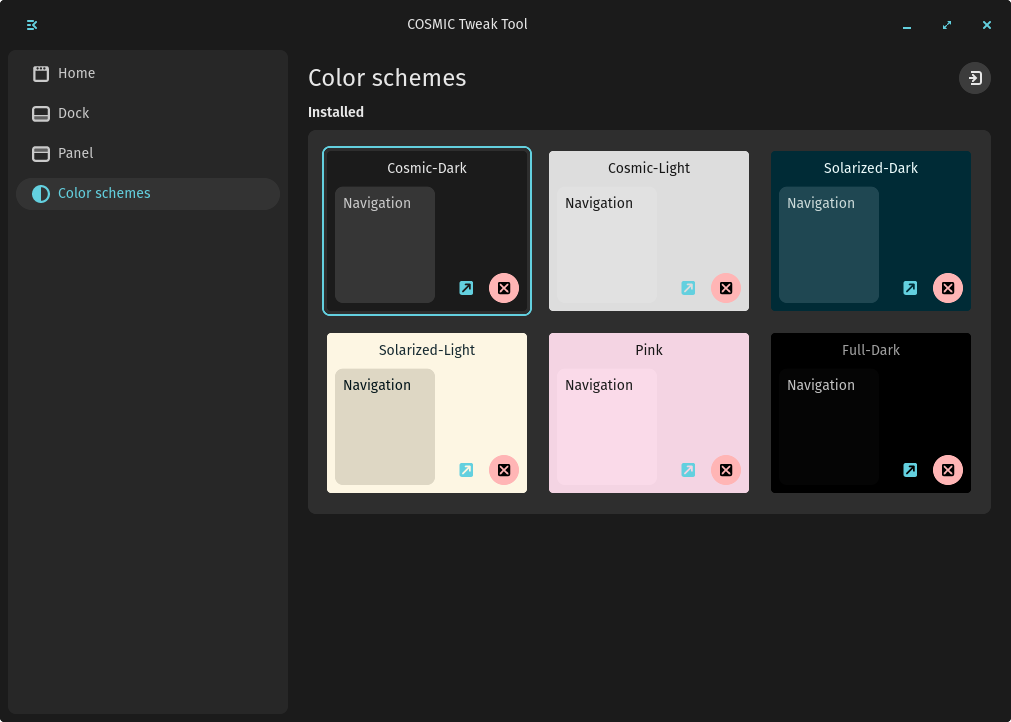
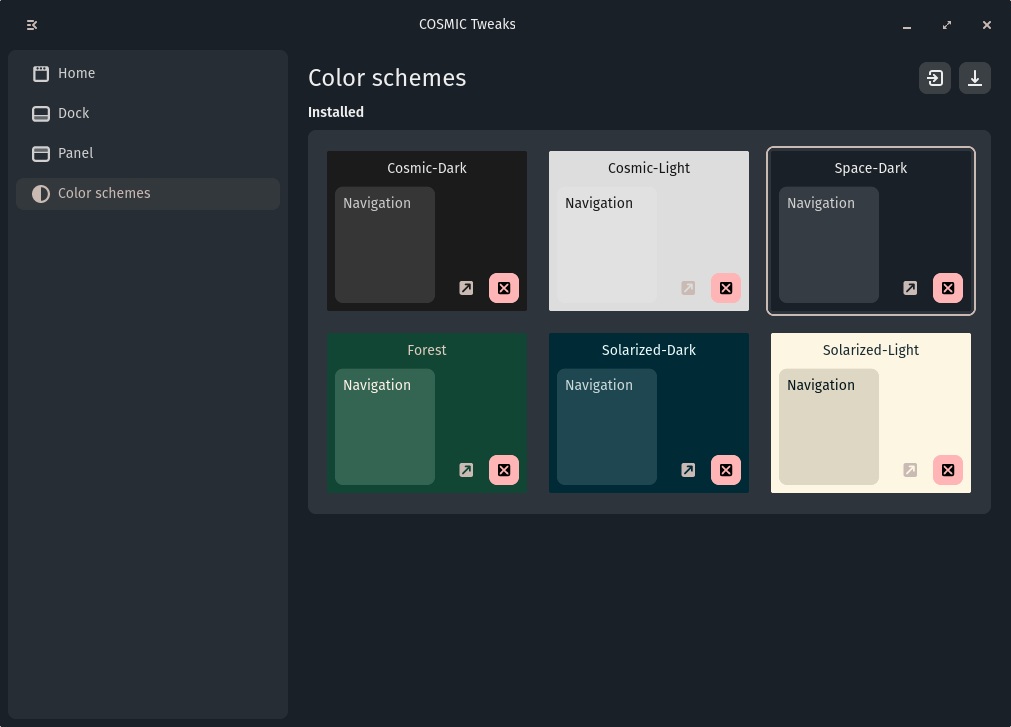
feat: save current theme
- added button to save current theme
- general improvements
- added tooltips

diff --git a/src/pages/color_schemes.rs b/src/pages/color_schemes.rs
@@ -7,17 +7,18 @@ use cosmic::{
     cosmic_config::{Config, CosmicConfigEntry},
     cosmic_theme::{Theme, ThemeBuilder, ThemeMode},
     iced::Length,
-    widget, Apply, Command, Element,
+    widget::{self, tooltip},
+    Apply, Command, Element,
 };
 
 mod config;
 mod preview;
 
 pub struct ColorSchemes {
+    selected: ColorScheme,
     color_schemes: Vec<ColorScheme>,
     config_helper: Option<Config>,
     config: Option<ColorScheme>,
-    selected: ColorScheme,
     theme_mode: ThemeMode,
     theme_builder_config: Option<Config>,
     theme_builder: ThemeBuilder,
@@ -71,10 +72,10 @@ impl Default for ColorSchemes {
         let selected = config.clone().unwrap_or_default();
         let color_schemes = Self::fetch_color_schemes().unwrap_or_default();
         Self {
+            selected,
             color_schemes,
             config_helper,
             config,
-            selected,
             theme_mode,
             theme_builder_config,
             theme_builder,
@@ -88,6 +89,7 @@ pub enum Message {
     ImportError,
     ImportFile(Arc<SelectedFiles>),
     ImportSuccess(Box<ThemeBuilder>),
+    SaveCurrentColorScheme(Option<String>),
     SetColorScheme(ColorScheme),
     DeleteColorScheme(ColorScheme),
     OpenContainingFolder(ColorScheme),
@@ -97,17 +99,33 @@ pub enum Message {
 impl ColorSchemes {
     pub fn view<'a>(&self) -> Element<'a, Message> {
         let spacing = cosmic::theme::active().cosmic().spacing;
+
         widget::column::with_children(vec![
             widget::row::with_children(vec![
                 widget::text::title3(fl!("color-schemes")).into(),
                 widget::horizontal_space(Length::Fill).into(),
-                icons::get_icon("step-in-symbolic", 16)
-                    .apply(widget::button)
-                    .padding(spacing.space_xxs)
-                    .on_press(Message::StartImport)
-                    .style(cosmic::theme::Button::Standard)
-                    .into(),
+                widget::tooltip::tooltip(
+                    icons::get_icon("arrow-into-box-symbolic", 16)
+                        .apply(widget::button)
+                        .padding(spacing.space_xxs)
+                        .on_press(Message::SaveCurrentColorScheme(None))
+                        .style(cosmic::theme::Button::Standard),
+                    fl!("save-current-color-scheme"),
+                    tooltip::Position::Bottom,
+                )
+                .into(),
+                widget::tooltip::tooltip(
+                    icons::get_icon("document-save-symbolic", 16)
+                        .apply(widget::button)
+                        .padding(spacing.space_xxs)
+                        .on_press(Message::StartImport)
+                        .style(cosmic::theme::Button::Standard),
+                    fl!("import-color-scheme"),
+                    tooltip::Position::Bottom,
+                )
+                .into(),
             ])
+            .spacing(spacing.space_xxs)
             .into(),
             widget::scrollable(widget::settings::view_section(fl!("installed")).add({
                 let themes: Vec<Element<Message>> = self
@@ -161,30 +179,34 @@ impl ColorSchemes {
                 let Ok(path) = f.to_file_path() else {
                     return Command::none();
                 };
-                let inner_path = path.clone();
+
+                let file = path.file_name().unwrap().to_str().unwrap().to_string();
+
+                let new_file = dirs::data_local_dir()
+                    .map(|dir| dir.join("themes/cosmic").join(file))
+                    .unwrap_or_default();
+
+                let color_scheme = ColorScheme {
+                    name: new_file.file_stem().unwrap().to_str().unwrap().to_string(),
+                    path: new_file.clone(),
+                    theme: Default::default(),
+                };
+
+                commands.push(self.update(Message::SetColorScheme(color_scheme.clone())));
+
+                let file_path = path.clone();
                 commands.push(Command::perform(
                     async move { tokio::fs::read_to_string(path).await },
                     move |res| {
-                        if let Some(b) = res.ok().and_then(|s| {
-                            if let Some(dir) = dirs::data_local_dir() {
-                                if inner_path.is_file() {
-                                    let file = inner_path
-                                        .file_name()
-                                        .unwrap()
-                                        .to_str()
-                                        .unwrap()
-                                        .to_string();
-                                    let dir = dir.join("themes/cosmic").join(file);
-                                    if !dir.exists() {
-                                        if let Err(e) = std::fs::write(dir, &s) {
-                                            eprintln!(
-                                                "failed to write the file to the themes directory: {e}"
-                                            );
-                                        }
-                                    }
+                        if let Some(b) = res.ok().and_then(|theme| {
+                            if file_path.is_file() && !new_file.exists() {
+                                if let Err(e) = std::fs::write(new_file, &theme) {
+                                    eprintln!(
+                                        "failed to write the file to the themes directory: {e}"
+                                    );
                                 }
                             }
-                            ron::de::from_str(&s).ok()
+                            ron::de::from_str(&theme).ok()
                         }) {
                             Message::ImportSuccess(Box::new(b))
                         } else {
@@ -228,8 +250,10 @@ impl ColorSchemes {
                 if let Err(e) = config.set_path(config_helper, self.selected.path.clone()) {
                     eprintln!("There was an error selecting the color scheme: {e}");
                 }
-                if let Ok(theme) = &color_scheme.theme() {
-                    commands.push(self.update(Message::ImportSuccess(Box::new(theme.clone()))))
+                if color_scheme.theme != ThemeBuilder::default() {
+                    if let Ok(theme) = &color_scheme.theme() {
+                        commands.push(self.update(Message::ImportSuccess(Box::new(theme.clone()))))
+                    }
                 }
             }
             Message::DeleteColorScheme(color_scheme) => {
@@ -252,6 +276,38 @@ impl ColorSchemes {
             }
             Message::ReloadColorSchemes => {
                 self.color_schemes = Self::fetch_color_schemes().unwrap_or_default();
+            }
+            Message::SaveCurrentColorScheme(name) => {
+                if let Some(name) = name {
+                    let path = dirs::data_local_dir()
+                        .map(|dir| dir.join("themes/cosmic").join(&name).with_extension("ron"))
+                        .unwrap_or_default();
+
+                    let color_scheme = ColorScheme {
+                        name,
+                        path: path.clone(),
+                        theme: self.theme_builder.clone(),
+                    };
+
+                    if path.exists() {
+                        eprintln!("The color scheme already exists.");
+                        return Command::none();
+                    }
+
+                    let Ok(theme_builder) = ron::to_string(&self.theme_builder) else {
+                        eprintln!("failed to serialize the theme builder");
+                        return Command::none();
+                    };
+
+                    if let Err(e) = std::fs::write(path, &theme_builder) {
+                        eprintln!("failed to write the file to the themes directory: {e}");
+                    }
+
+                    commands.push(self.update(Message::SetColorScheme(color_scheme)));
+                    commands.push(self.update(Message::ReloadColorSchemes))
+                } else {
+                    commands.push(self.update(Message::SaveCurrentColorScheme(None)))
+                }
             }
         }
         Command::batch(commands)

diff --git a/src/app.rs b/src/app.rs
@@ -1,3 +1,5 @@
+use std::collections::VecDeque;
+
 use cosmic::{
     app::{self, Core},
     iced::{Alignment, Command, Length},
@@ -11,10 +13,16 @@ use crate::{
     pages::{self, color_schemes::ColorSchemes},
 };
 
-#[derive(Default)]
 pub struct TweakTool {
     core: Core,
     nav_model: segmented_button::SingleSelectModel,
+    dialog_pages: VecDeque<DialogPage>,
+    dialog_text_input: widget::Id,
+}
+
+#[derive(Clone, Debug, Eq, PartialEq)]
+pub enum DialogPage {
+    New(String),
 }
 
 #[derive(Debug, Clone)]
@@ -23,6 +31,11 @@ pub enum Message {
     Dock(pages::dock::Message),
     Panel(pages::panel::Message),
     ColorSchemes(Box<pages::color_schemes::Message>),
+    OpenSaveDialog,
+    DialogUpdate(DialogPage),
+    DialogComplete,
+    DialogCancel,
+    SaveNewColorScheme(String),
 }
 
 impl Application for TweakTool {
@@ -58,6 +71,38 @@ impl Application for TweakTool {
         Command::none()
     }
 
+    fn dialog(&self) -> Option<Element<Self::Message>> {
+        let dialog_page = match self.dialog_pages.front() {
+            Some(some) => some,
+            None => return None,
+        };
+
+        let spacing = cosmic::theme::active().cosmic().spacing;
+
+        let dialog = match dialog_page {
+            DialogPage::New(name) => widget::dialog(fl!("save-current-color-scheme"))
+                .primary_action(
+                    widget::button::suggested(fl!("save"))
+                        .on_press_maybe(Some(Message::DialogComplete)),
+                )
+                .secondary_action(
+                    widget::button::standard(fl!("cancel")).on_press(Message::DialogCancel),
+                )
+                .control(
+                    widget::column::with_children(vec![
+                        widget::text::body(fl!("color-scheme-name")).into(),
+                        widget::text_input("", name.as_str())
+                            .id(self.dialog_text_input.clone())
+                            .on_input(move |name| Message::DialogUpdate(DialogPage::New(name)))
+                            .into(),
+                    ])
+                    .spacing(spacing.space_xxs),
+                ),
+        };
+
+        Some(dialog.into())
+    }
+
     fn init(core: Core, _flags: Self::Flags) -> (Self, Command<app::Message<Self::Message>>) {
         let mut nav_model = segmented_button::SingleSelectModel::default();
         for &nav_page in NavPage::all() {
@@ -73,7 +118,12 @@ impl Application for TweakTool {
             }
         }
 
-        let app = TweakTool { nav_model, core };
+        let app = TweakTool {
+            nav_model,
+            core,
+            dialog_pages: VecDeque::new(),
+            dialog_text_input: widget::Id::unique(),
+        };
 
         (app, Command::none())
     }
@@ -111,13 +161,42 @@ impl Application for TweakTool {
                     .update(message)
                     .map(cosmic::app::Message::App),
             ),
-            Message::ColorSchemes(message) => commands.push(
-                ColorSchemes::default()
-                    .update(*message)
-                    .map(Box::new)
-                    .map(Message::ColorSchemes)
-                    .map(cosmic::app::Message::App),
-            ),
+            Message::ColorSchemes(message) => match *message {
+                pages::color_schemes::Message::SaveCurrentColorScheme(None) => {
+                    commands.push(self.update(Message::OpenSaveDialog))
+                }
+                _ => commands.push(
+                    ColorSchemes::default()
+                        .update(*message)
+                        .map(Box::new)
+                        .map(Message::ColorSchemes)
+                        .map(cosmic::app::Message::App),
+                ),
+            },
+            Message::SaveNewColorScheme(name) => {
+                commands.push(self.update(Message::ColorSchemes(Box::new(
+                    pages::color_schemes::Message::SaveCurrentColorScheme(Some(name)),
+                ))))
+            }
+            Message::OpenSaveDialog => {
+                self.dialog_pages.push_back(DialogPage::New(String::new()));
+                return widget::text_input::focus(self.dialog_text_input.clone());
+            }
+            Message::DialogUpdate(dialog_page) => {
+                self.dialog_pages[0] = dialog_page;
+            }
+            Message::DialogComplete => {
+                if let Some(dialog_page) = self.dialog_pages.pop_front() {
+                    match dialog_page {
+                        DialogPage::New(name) => {
+                            commands.push(self.update(Message::SaveNewColorScheme(name)))
+                        }
+                    }
+                }
+            }
+            Message::DialogCancel => {
+                self.dialog_pages.pop_front();
+            }
         }
         Command::batch(commands)
     }

diff --git a/src/pages/color_schemes/preview.rs b/src/pages/color_schemes/preview.rs
@@ -1,8 +1,9 @@
+use crate::fl;
 use cosmic::{
     cosmic_theme::Theme,
     iced::{Alignment, Border, Color, Length},
     iced_core::Shadow,
-    widget::{self, button, container},
+    widget::{self, button, container, tooltip},
     Apply, Element,
 };
 
@@ -31,18 +32,26 @@ pub fn view<'a>(color_scheme: &ColorScheme, selected: &ColorScheme) -> Element<'
                     .style(card(&theme))
                     .into(),
                 widget::horizontal_space(Length::Fill).into(),
-                icons::get_icon("symbolic-link-symbolic", 14)
-                    .apply(widget::button)
-                    .style(cosmic::theme::Button::Link)
-                    .padding(spacing.space_xxs)
-                    .on_press(super::Message::OpenContainingFolder(color_scheme.clone()))
-                    .into(),
-                icons::get_icon("cross-filled-large-symbolic", 14)
-                    .apply(widget::button)
-                    .style(cosmic::theme::Button::Destructive)
-                    .padding(spacing.space_xxs)
-                    .on_press(super::Message::DeleteColorScheme(color_scheme.clone()))
-                    .into(),
+                widget::tooltip::tooltip(
+                    icons::get_icon("symbolic-link-symbolic", 14)
+                        .apply(widget::button)
+                        .style(cosmic::theme::Button::Link)
+                        .padding(spacing.space_xxs)
+                        .on_press(super::Message::OpenContainingFolder(color_scheme.clone())),
+                    fl!("open-containing-folder"),
+                    tooltip::Position::Bottom,
+                )
+                .into(),
+                widget::tooltip::tooltip(
+                    icons::get_icon("cross-filled-large-symbolic", 14)
+                        .apply(widget::button)
+                        .style(cosmic::theme::Button::Destructive)
+                        .padding(spacing.space_xxs)
+                        .on_press(super::Message::DeleteColorScheme(color_scheme.clone())),
+                    fl!("delete-color-scheme"),
+                    tooltip::Position::Bottom,
+                )
+                .into(),
             ])
             .align_items(Alignment::End)
             .spacing(spacing.space_xxs)

diff --git a/src/core/icons.rs b/src/core/icons.rs
@@ -41,6 +41,8 @@ impl IconCache {
         bundle!("dark-mode-symbolic", 18);
         bundle!("resize-mode-symbolic", 18);
         bundle!("step-in-symbolic", 16);
+        bundle!("arrow-into-box-symbolic", 16);
+        bundle!("document-save-symbolic", 16);
         bundle!("symbolic-link-symbolic", 14);
         bundle!("cross-filled-large-symbolic", 14);
 
